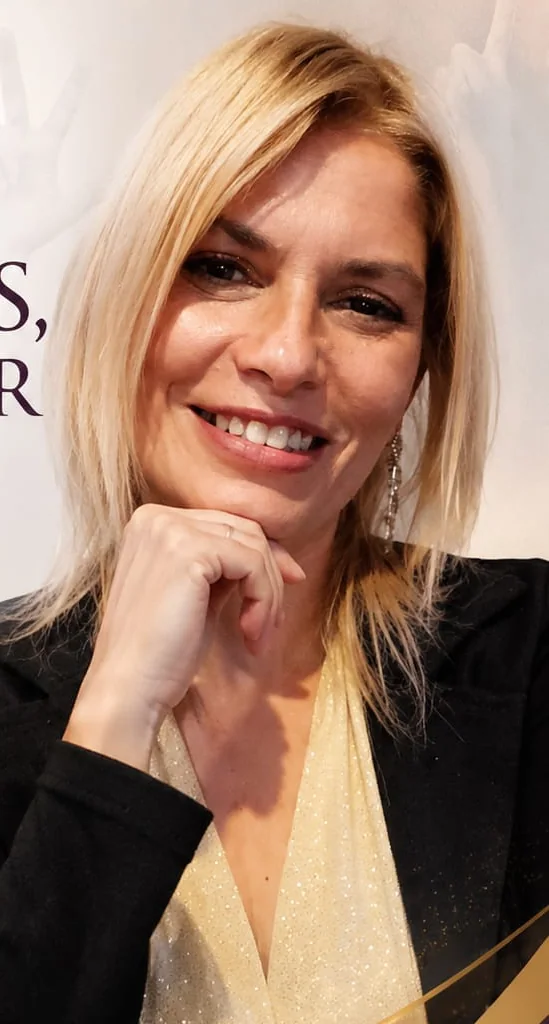
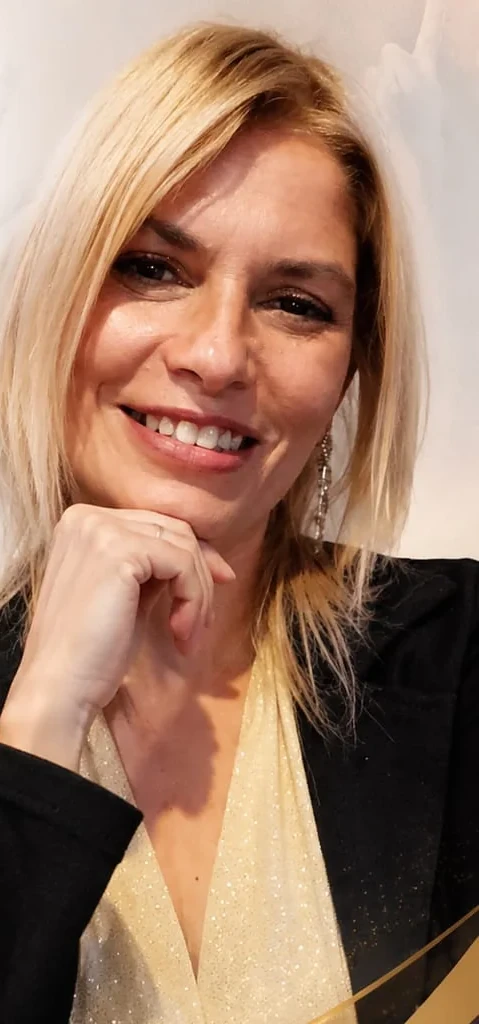
Rediseñar la sección visual de la página de Berenice
La sección mostraba dos imágenes en collage sin relación entre sí: el retrato tenía texto de un afiche cortado en los bordes ("S," "R" visibles), y encima se superponía un flyer promocional completo (paleta borgoña/dorado, tipografías propias) que no combinaba con la estética navy/crema del resto del sitio.

- Se recorta el retrato para eliminar el afiche de fondo, dejando solo a Berenice.
- Se elimina el flyer superpuesto (asset sin otros usos, se borra del repo).
- El retrato pasa a un tratamiento único enmarcado (línea interior + leyenda en la esquina, mismo lenguaje que el resto de las imágenes del sitio) en vez del collage.
- La lista de datos (4 puntos) pasa a números grandes en serif, más protagonismo infográfico.
- Se agrega animación de aparición al hacer scroll (data-reveal), reutilizando el mismo observer que ya usan otras secciones del sitio.

diff --git a/src/styles/atelier.css b/src/styles/atelier.css
@@ -165,21 +165,33 @@ html { scroll-padding-top: calc(var(--header-height) + 1rem); }
 .audience-explorer__panel blockquote { position: relative; z-index: 2; max-width: 620px; margin: 0; font-family: var(--sans); font-size: 0.95rem; }
 
 /* Author */
-.author { background: var(--cream); }
-.author__grid { display: grid; grid-template-columns: minmax(420px, 0.92fr) minmax(0, 1.08fr); gap: clamp(5rem, 10vw, 10rem); align-items: center; }
-.author__visual { position: relative; min-height: 760px; }
-.author__portrait { position: absolute; z-index: 2; top: 0; left: 0; width: 68%; }
-.author__portrait img { width: 100%; aspect-ratio: 0.72; object-fit: cover; object-position: center 18%; filter: saturate(0.78) contrast(1.03); }
-.author__context { position: absolute; right: 0; bottom: 8%; width: 56%; border: 12px solid var(--cream); }
-.author__context img { width: 100%; aspect-ratio: 1.25; object-fit: cover; filter: grayscale(1) contrast(1.02); }
-.author__visual::after { position: absolute; top: 10%; right: 6%; width: 55%; aspect-ratio: 1; content: ""; border: 1px solid var(--gold); border-radius: 50%; }
-.author__visual-label { position: absolute; bottom: 0; left: 0; font-size: 0.56rem; letter-spacing: 0.15em; text-transform: uppercase; }
+.author { background: var(--cream); overflow: hidden; }
+.author__grid { display: grid; grid-template-columns: minmax(340px, 0.85fr) minmax(0, 1.15fr); gap: clamp(4rem, 8vw, 8rem); align-items: center; }
+.author__visual { position: relative; }
+.author__visual::after { position: absolute; z-index: 1; top: -10%; right: -14%; width: 62%; aspect-ratio: 1; content: ""; border: 1px solid var(--gold); border-radius: 50%; }
+.author__portrait { position: relative; z-index: 2; margin: 0; }
+.author__portrait::before { position: absolute; z-index: 2; inset: 1.1rem; content: ""; border: 1px solid rgba(11,23,48,.18); pointer-events: none; }
+.author__portrait img { width: 100%; aspect-ratio: 0.78; object-fit: cover; object-position: center 15%; filter: saturate(0.85) contrast(1.03); }
+.author__portrait figcaption {
+  position: absolute;
+  z-index: 3;
+  left: 1.1rem;
+  bottom: 1.1rem;
+  padding: .6rem .85rem;
+  color: var(--paper);
+  background: rgba(11,23,48,.82);
+  backdrop-filter: blur(10px);
+  font-size: .52rem;
+  letter-spacing: .13em;
+  text-transform: uppercase;
+}
 .author__content .section-heading { margin-bottom: 2.5rem; }
 .author__lead { max-width: 700px; font-family: var(--serif); font-size: clamp(1.55rem, 2.5vw, 2.35rem); line-height: 1.3; }
-.author__facts { padding: 0; margin: 2.6rem 0; border-top: 1px solid var(--line); list-style: none; }
-.author__facts li { display: grid; grid-template-columns: 3rem 1fr; gap: 1rem; padding: 1rem 0; border-bottom: 1px solid var(--line); }
-.author__facts span { color: var(--gold); font-size: 0.58rem; }
-.author__facts p { margin: 0; color: var(--ink-soft); font-size: 0.82rem; }
+.author__facts { display: grid; gap: 0; padding: 0; margin: 2.6rem 0; border-top: 1px solid var(--line); list-style: none; }
+.author__facts li { display: grid; grid-template-columns: 3.6rem 1fr; align-items: baseline; gap: 1.2rem; padding: 1.3rem 0; border-bottom: 1px solid var(--line); transition: padding-left 220ms ease; }
+.author__facts li:hover { padding-left: .4rem; }
+.author__facts span { font-family: var(--serif); color: var(--gold); font-size: 1.4rem; font-weight: 500; line-height: 1; }
+.author__facts p { margin: 0; color: var(--ink-soft); font-size: 0.84rem; line-height: 1.45; }
 .author blockquote { max-width: 700px; padding-left: 1.5rem; margin: 0; border-left: 2px solid var(--gold); font-size: clamp(1.7rem, 2.8vw, 2.6rem); font-style: italic; line-height: 1.2; }
 
 /* Association + impact route */
@@ -338,10 +350,7 @@ html { scroll-padding-top: calc(var(--header-height) + 1rem); }
   .audience-explorer__nav { grid-template-rows: none; border-right: 0; }
   .audience-explorer__nav button { min-height: 76px; }
   .audience-explorer__panel { min-height: 500px; border-top: 1px solid var(--line); }
-  .author__visual { min-height: 560px; }
-  .author__portrait { width: 75%; }
-  .author__context { width: 58%; border-width: 8px; }
-  .author__visual-label { max-width: 180px; }
+  .author__visual::after { width: 70%; }
   .impact-route__title { display: block; }
   .impact-route__title strong { display: block; margin-top: 0.5rem; }
   .impact-route ol { grid-template-columns: 1fr; }
@@ -374,7 +383,6 @@ html { scroll-padding-top: calc(var(--header-height) + 1rem); }
   .listening-atlas__center strong { font-size: 1.45rem; }
   .audience-explorer__panel { min-height: 460px; padding: 1.5rem; }
   .audience-explorer__panel h3 { font-size: 3.7rem; }
-  .author__visual { min-height: 510px; }
 }
 
 @media (prefers-reduced-motion: reduce) {

diff --git a/src/pages/AuthorPage.tsx b/src/pages/AuthorPage.tsx
@@ -14,12 +14,13 @@ export function AuthorPage() {
 
       <section className="author section" aria-labelledby="author-story-title">
         <div className="shell author__grid">
-          <div className="author__visual">
-            <div className="author__portrait"><img src={asset("berenice-cura.webp")} width="549" height="1024" alt="Retrato de Berenice Cura sonriendo, con la mano apoyada bajo el rostro" /></div>
-            <div className="author__context"><img src={asset("berenice-presentacion.webp")} width="1024" height="682" loading="lazy" alt="Berenice Cura durante una presentación" /></div>
-            <span className="author__visual-label">Comunicación · educación · accesibilidad</span>
+          <div className="author__visual" data-reveal>
+            <figure className="author__portrait">
+              <img src={asset("berenice-cura.webp")} width="479" height="1024" alt="Retrato de Berenice Cura sonriendo, con la mano apoyada bajo el rostro" />
+              <figcaption>Comunicación · educación · accesibilidad</figcaption>
+            </figure>
           </div>
-          <div className="author__content">
+          <div className="author__content" data-reveal>
             <p className="eyebrow">Su trabajo</p>
             <h2 id="author-story-title">Comunicación como derecho.</h2>
             <p className="author__lead">Desde su experiencia personal con la hipoacusia y su compromiso con la educación, impulsa una sociedad donde la comunicación sea un derecho para todas las personas.</p>
